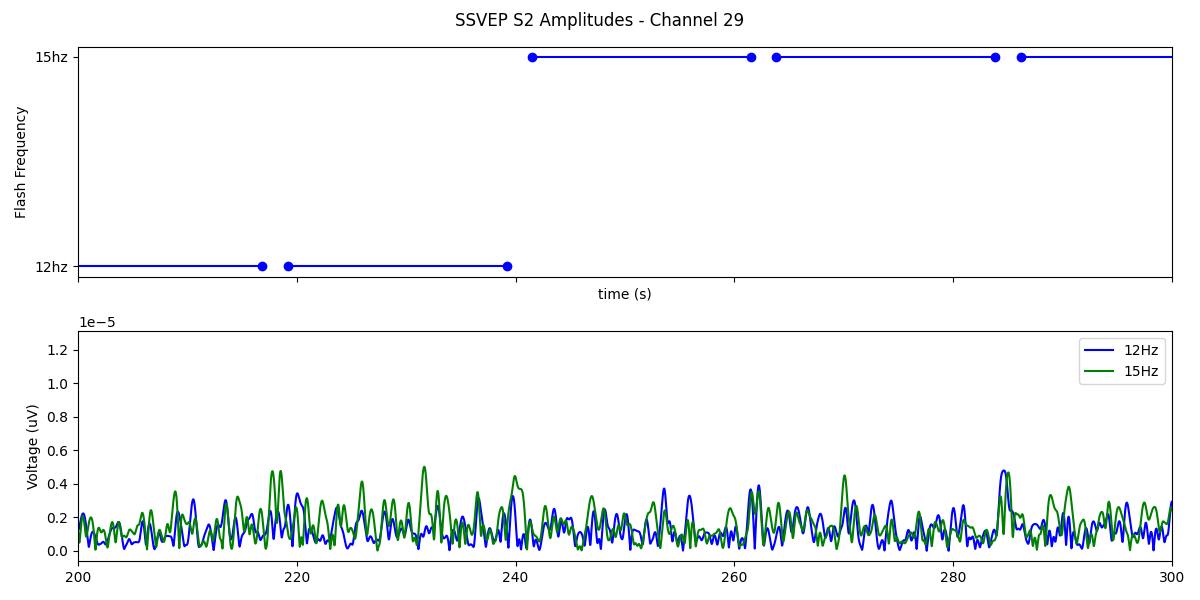
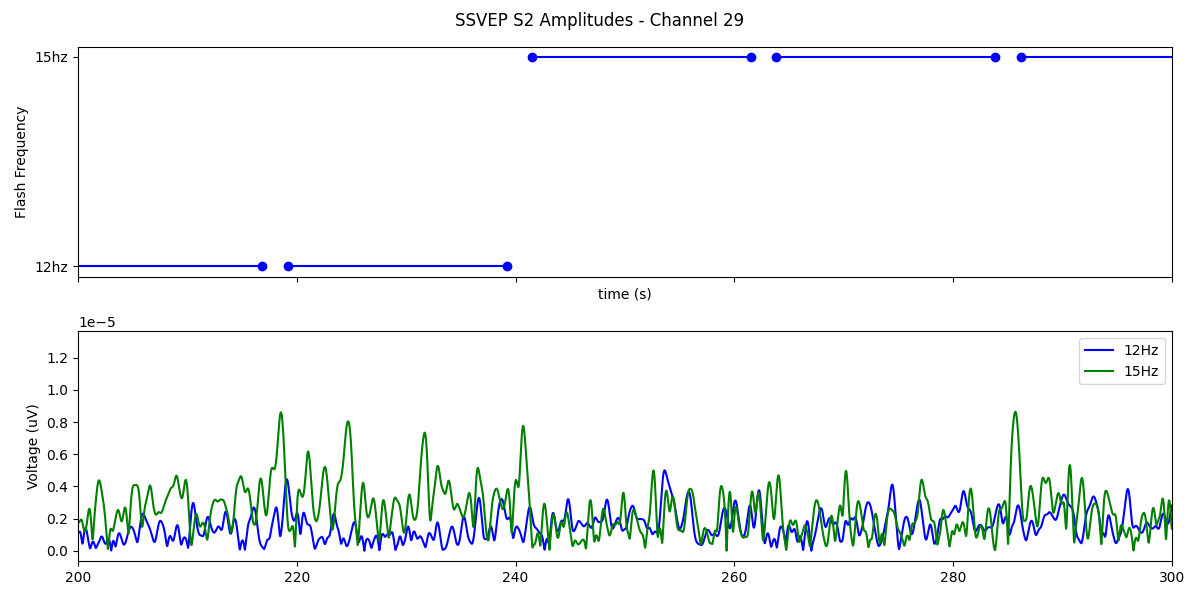
Final sub

diff --git a/test_filter_ssvep_data.py b/test_filter_ssvep_data.py
@@ -33,7 +33,7 @@ envelope_1 = get_envelope(data, filtered_data_1, "3", None)
 envelope_2 = get_envelope(data, filtered_data_2, "5", None)
 
 # Part 5
-channel_to_plot = 14 # Oz channel 29
+channel_to_plot = 29 # Oz channel 29
 plot_ssvep_amplitudes(data, envelope_1, envelope_2, channel_to_plot, 12, 15, subject)
 
 # Part 6
